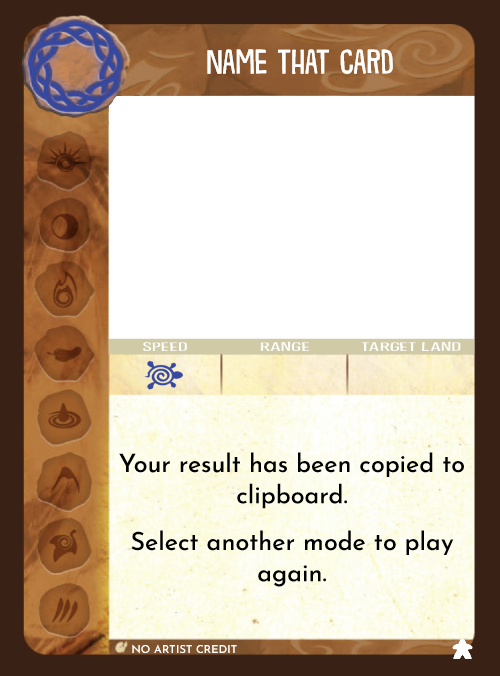
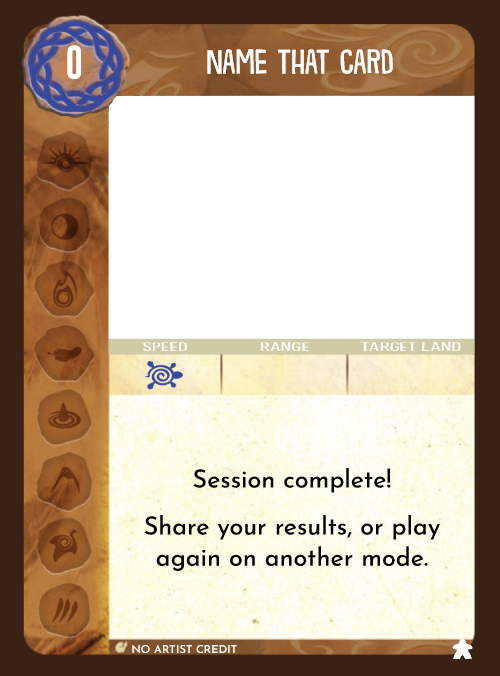
added finish card

Changed region(s): [[0.27, 0.6524, 0.93, 0.8698], [0.24, 0.6524, 0.33, 0.7145], [0.12, 0.0621, 0.18, 0.1243]]

diff --git a/card-guesser/script.js b/card-guesser/script.js
@@ -356,12 +356,19 @@ function newCard(wait) {
 	// No more cards to guess
 	if (!cardsToGuess.length) {
 		currentCard = null;
-		shareWrapper.style.display = '';
-		cardInputWrapper.style.display = 'none';
-		continueButton.style.display = 'none';
-		submitInput.style.display = 'none';
+		
 		preImg.href = '/card-guesser/finish_card.png';
-		currentAnswer = -1;
+		lock = true;
+		setTimeout(() => {
+			lock = false;
+			cardImage.src = '/card-guesser/finish_card.png';
+			shareWrapper.style.display = '';
+			cardInputWrapper.style.display = 'none';
+			continueButton.style.display = 'none';
+			submitInput.style.display = 'none';
+			infoWrapper.style.backgroundColor = '';
+			currentAnswer = -1;
+		}, 1500);
 		return;
 	}
 	currentCard = cardsToGuess.splice(0, 1)[0];
@@ -512,7 +519,7 @@ function toggleDaily(idx) {
 function shareSet() {
 	if (lock) return
 	// First time
-	if (!cardImage.src.includes("/card-guesser/finish_card.png")) {
+	if (!cardImage.src.includes("/card-guesser/share_card.png")) {
 		let searchParams = new URLSearchParams();
 		
 		let current = getScore();
@@ -540,7 +547,7 @@ function shareSet() {
 		}
 		let paramText = searchParams.toString();
 		copyText += 'https://spirit-island.vercel.app/card-guesser/' + (paramText ? '?' + paramText : '');
-		cardImage.src = "/card-guesser/finish_card.png";
+		cardImage.src = "/card-guesser/share_card.png";
 	}
 	infoWrapper.style.backgroundColor = '';
 	cardsLeft.style.display = '';
